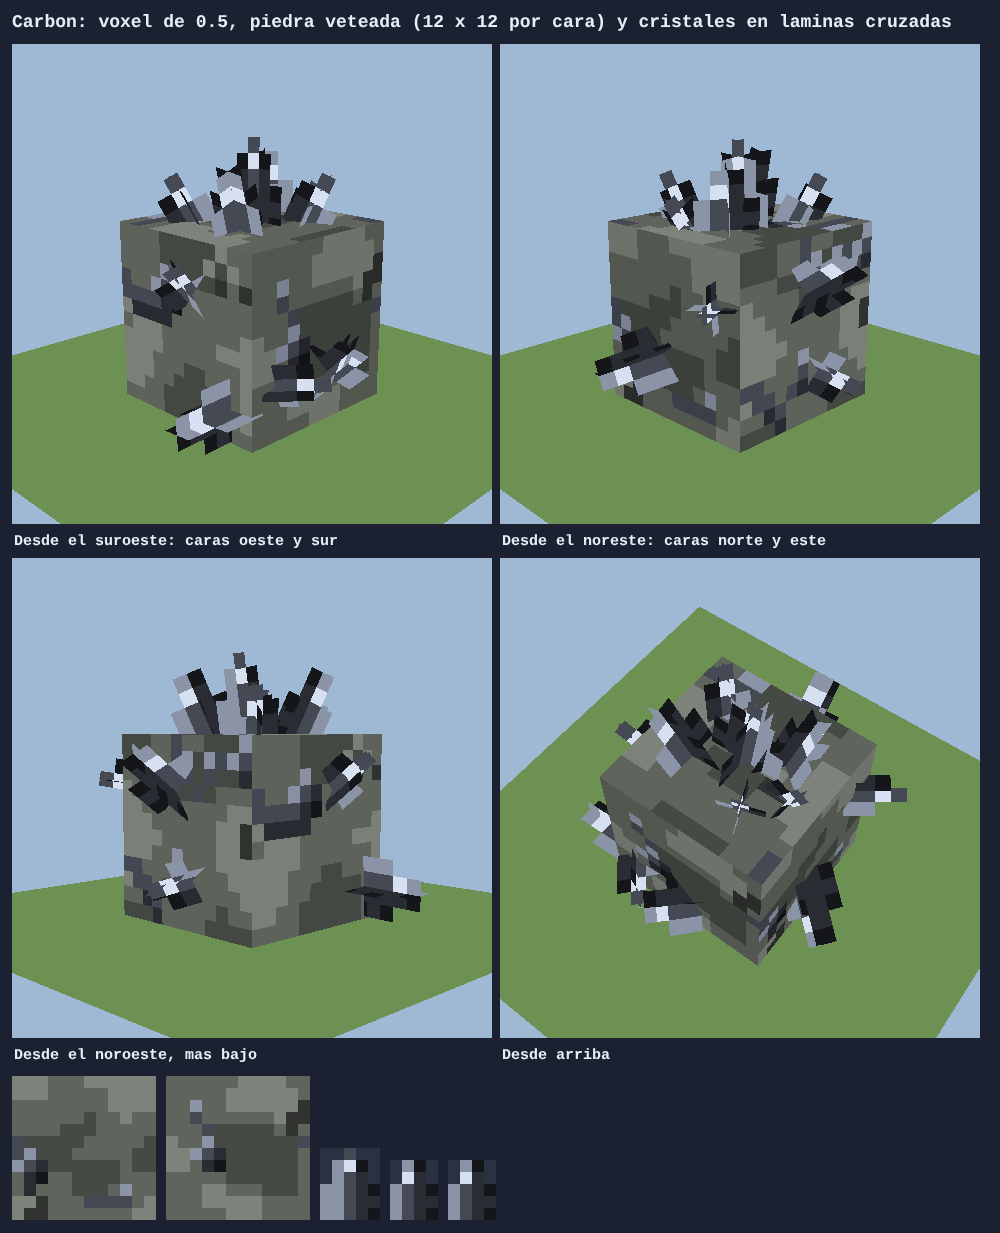
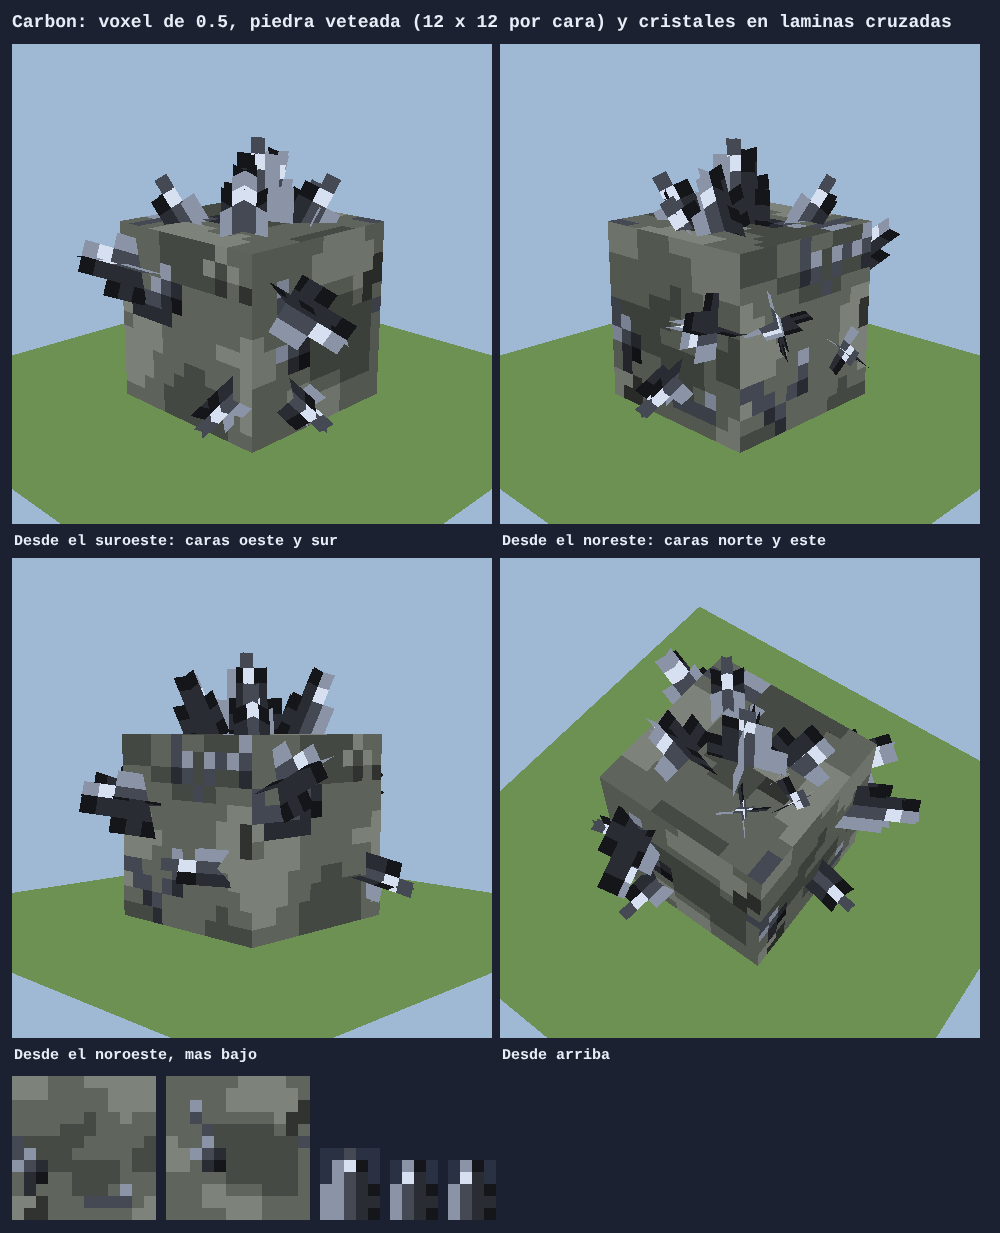
Boceto de minerales: en el voxel, 45-75 grados con la cara, arco de 0-30, y resorteado
Claude-Session: https://claude.ai/code/session_01XutUh4eVSdN6S6kRiv2aM4

diff --git a/docs/bocetos/minerales/index.html b/docs/bocetos/minerales/index.html
@@ -221,7 +221,9 @@ function addCrystal(base, axis, w, h, seed, spin) {
   scene.add(g);
 }
 
-const r = rng(mineral === 'carbon' ? 0xc0a1 : 0xc0b0);
+// El voxel, con su propia semilla (resorteado a peticion del autor,
+// 2026-10-20); el bloque aprobado, con la suya de siempre.
+const r = rng((mineral === 'carbon' ? 0xc0a1 : 0xc0b0) + (small ? 0x2f1 : 0));
 const jitter = (k) => (r() - 0.5) * k;
 const UP = new THREE.Vector3(0, 1, 0);
 // Arriba: un racimo apretado, los grandes en el centro y abiertos hacia fuera.
@@ -244,8 +246,8 @@ const sides = [
 ];
 /**
  * Los dos cristales de una cara del voxel (el autor, 2026-10-20): cada uno
- * entre 45 y 90 grados con la cara, con la punta en un arco que la lleva hacia
- * el centro de la cara o hacia su borde (hasta 45 grados a cada lado), y a una
+ * entre 45 y 75 grados con la cara, con la punta en un arco que la lleva hacia
+ * el centro de la cara o hacia su borde (de 0 a 30 grados a cada lado), y a una
  * distancia del otro que varia, **sin que sus bases se toquen nunca**: entre
  * sus pies queda al menos lo que miden sus dos medias bases mas un margen.
  */
@@ -266,8 +268,8 @@ function voxelSide(n, at, k) {
     // El arco: del centro de la cara hacia fuera, o al reves, con su desvio.
     let radial = base.clone().sub(center);
     if (radial.length() < 1e-3) radial = new THREE.Vector3(n.z, 0, -n.x);
-    radial.normalize().multiplyScalar(r() < 0.5 ? -1 : 1).applyAxisAngle(n, (r() - 0.5) * (Math.PI / 2));
-    const tilt = Math.PI / 4 + r() * (Math.PI / 4); // con la cara: de 45 a 90 grados
+    radial.normalize().multiplyScalar(r() < 0.5 ? -1 : 1).applyAxisAngle(n, (r() - 0.5) * (Math.PI / 3));
+    const tilt = Math.PI / 4 + r() * (Math.PI / 6); // con la cara: de 45 a 75 grados
     const axis = n.clone().multiplyScalar(Math.sin(tilt)).add(radial.multiplyScalar(Math.cos(tilt)));
     addCrystal(base, axis, w, h, 200 + k * 10 + i, r() * Math.PI);
   });

diff --git a/docs/pendiente.md b/docs/pendiente.md
@@ -106,7 +106,9 @@ Pidio solo un ejemplo, sin tocar el juego, para el cobre y el carbon.
   (*por confirmar*): la punta, hacia el centro de la cara o hacia su borde,
   con hasta 45 grados de desvio; entre dos pies, sus dos medias bases y un
   margen de 0,08 de la cara (`voxelSide`). Solo en el voxel: el bloque
-  aprobado no cambia. **Esperando al autor.**
+  aprobado no cambia. Luego, el autor: **el angulo con la cara, de 45 a 75
+  grados; el arco dentro-fuera, de 0 a 30**, y «resortea» (el voxel lleva su
+  propia semilla). **Esperando al autor.**
 - Lo que elegi yo (*por confirmar*): la piedra gris verdosa, los colores de
   cada mineral (y el cardenillo en las vetas del cobre), cuantos cristales y
   donde, su forma (prisma en punta con su cara de luz y su brillo).
